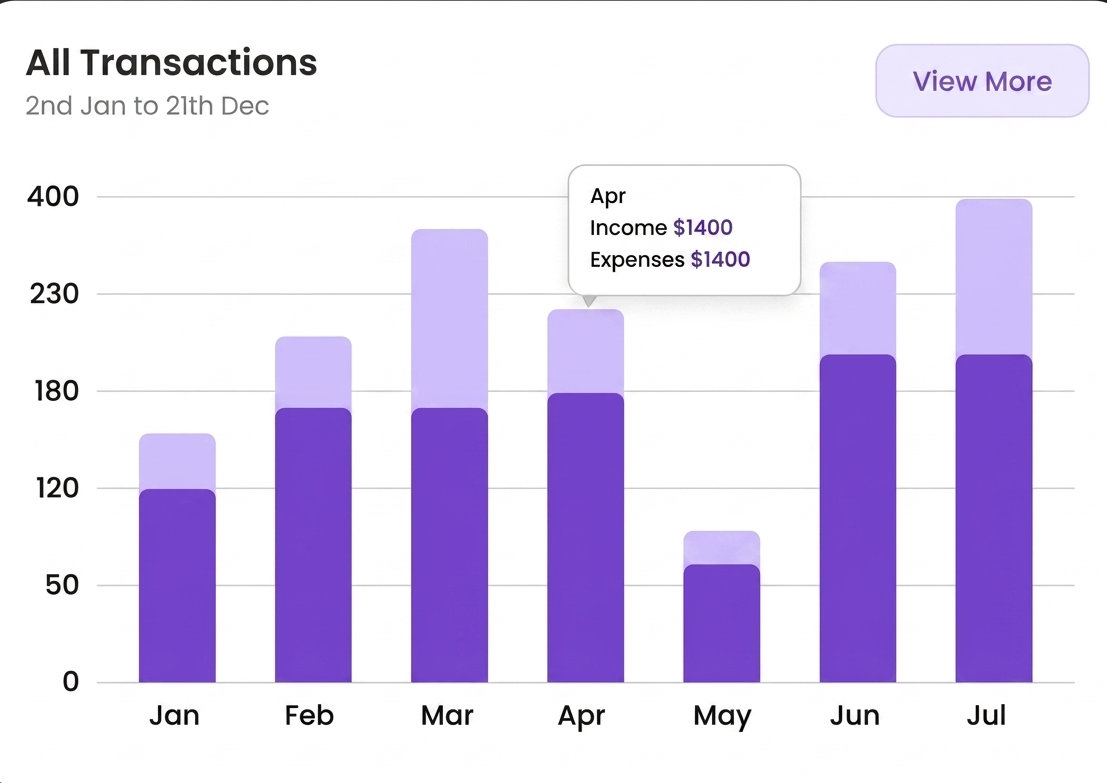
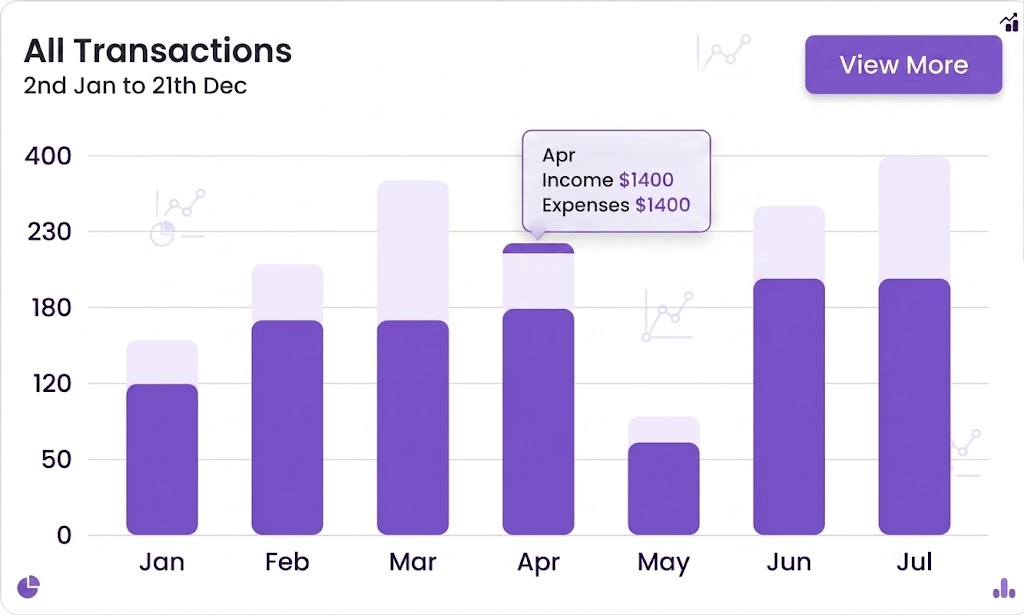
Creating Dashboard

diff --git a/frontend/react-app/src/components/layouts/DashboardLayout.jsx b/frontend/react-app/src/components/layouts/DashboardLayout.jsx
@@ -1,0 +1,22 @@
+import React, { useContext } from "react";
+import { UserContext } from "../../../context/UserContext";
+
+const DashboardLayout = ({ children, activeMenu }) => {
+  const { user } = useContext(UserContext);
+
+  return (
+    <div className="">
+      <Navbar activeMenu={activeMenu} />
+      (user && (
+      <div className="flex">
+        <div className="max-[1080px]:hidden">
+          <SideMenu activeMenu={activeMenu} />
+        </div>
+        <div className="grow mx-5">{children}</div>
+      </div>
+      ))
+    </div>
+  );
+};
+
+export default DashboardLayout;

diff --git a/frontend/react-app/src/components/layouts/SideMenu.jsx b/frontend/react-app/src/components/layouts/SideMenu.jsx
@@ -1,0 +1,7 @@
+import React from "react";
+
+const SideMenu = () => {
+  return <div>SideMenu</div>;
+};
+
+export default SideMenu;

diff --git a/frontend/react-app/src/pages/Dashboard/Home.jsx b/frontend/react-app/src/pages/Dashboard/Home.jsx
@@ -1,6 +1,10 @@
 import React from "react";
 
 const Home = () => {
-  return <div>Home</div>;
+  return (
+    <DashboardLayout activeMenu="Dashboard">
+      <div className="my-5 mx-auto"></div>
+    </DashboardLayout>
+  );
 };
 export default Home;